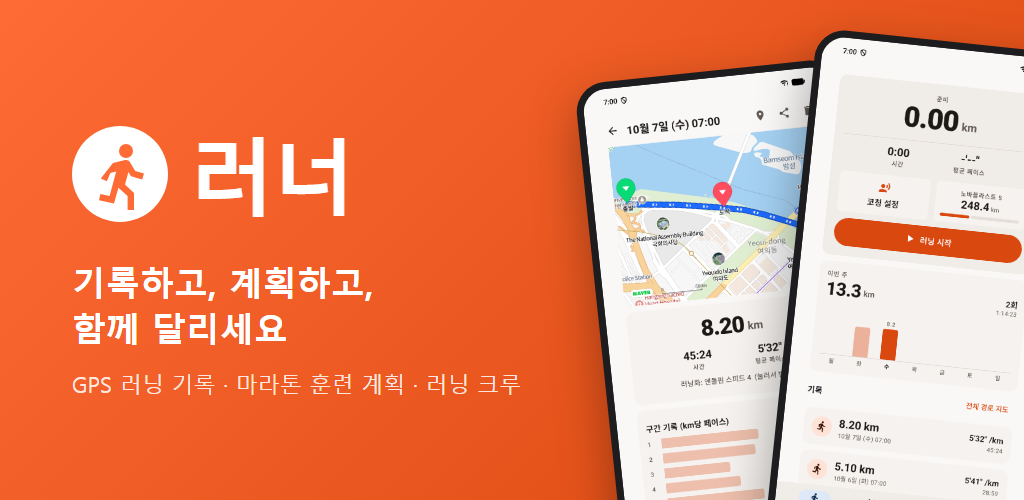
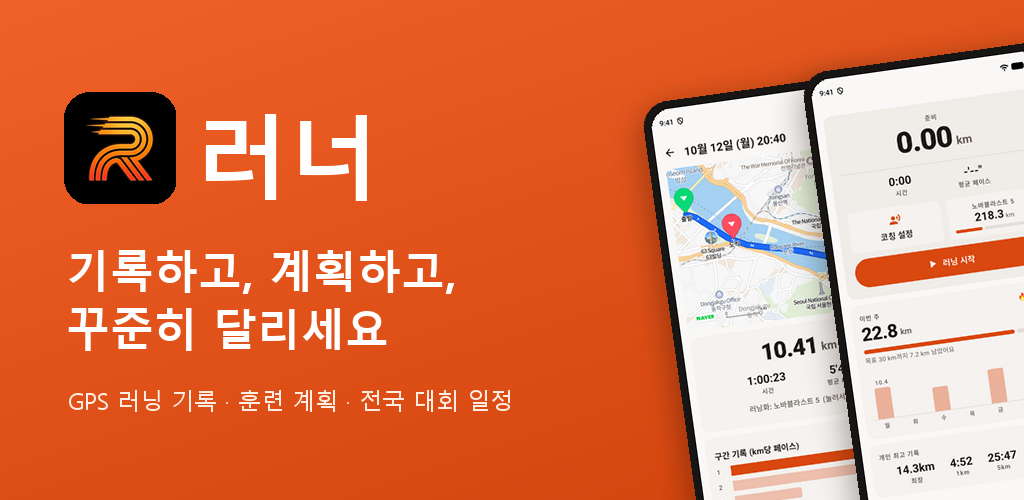
Refresh Play Store feature graphic and screenshots
- New 1024x500 feature graphic without the removed crew feature
- Five 1080x1920 captioned screenshots of the current app: run tab, run
  detail map, race calendar, auto training plan, all-routes map
- docs/play-store.md points to store/ for the assets

diff --git a/docs/play-store.md b/docs/play-store.md
@@ -7,9 +7,9 @@
 | 항목 | 위치 |
 |---|---|
 | 업로드할 AAB | GitHub 릴리스의 `runner-<버전>.aab` (태그를 올리면 자동 생성) |
-| 앱 아이콘 512×512 | 바탕화면 `러너 Play 스토어/play_icon_512.png` |
-| 그래픽 이미지 1024×500 | 바탕화면 `러너 Play 스토어/feature_1024x500.png` |
-| 휴대전화 스크린샷 | 바탕화면 `러너 Play 스토어/store_1~4_*.png` |
+| 앱 아이콘 512×512 | `store/icon_512.png` |
+| 그래픽 이미지 1024×500 | `store/feature_1024x500.png` |
+| 휴대전화 스크린샷 1080×1920 | `store/screenshots/01~05_*.png` |
 | 개인정보처리방침 URL | https://hamaraman.github.io/runner/privacy.html |
 | 패키지 이름 | `io.github.hamaraman.runner` (첫 업로드 후 변경 불가) |
 
